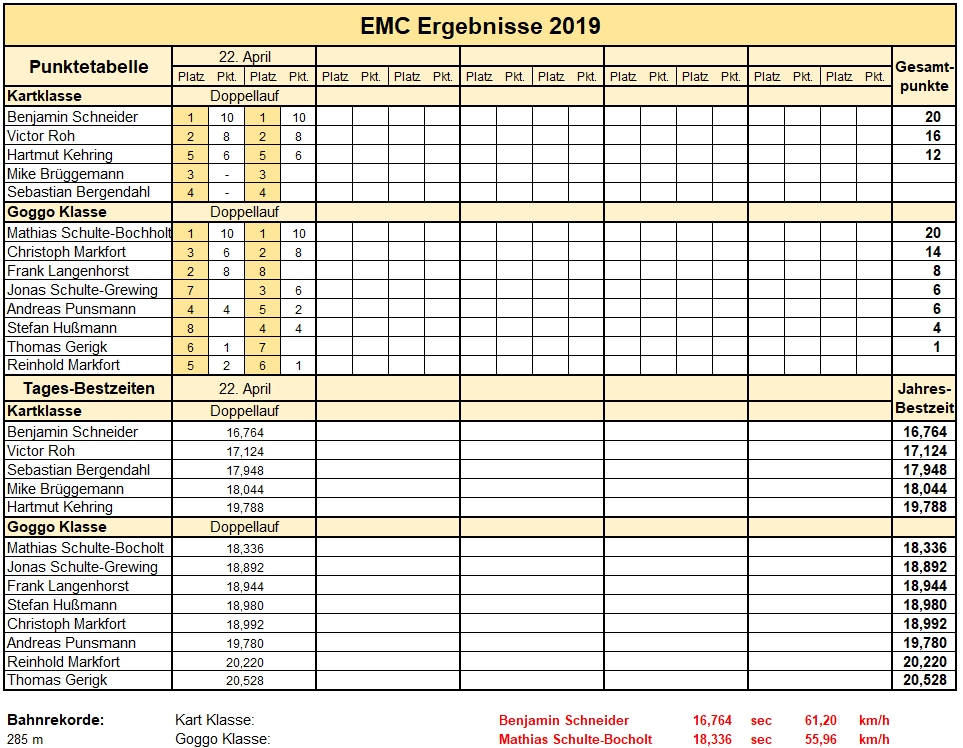
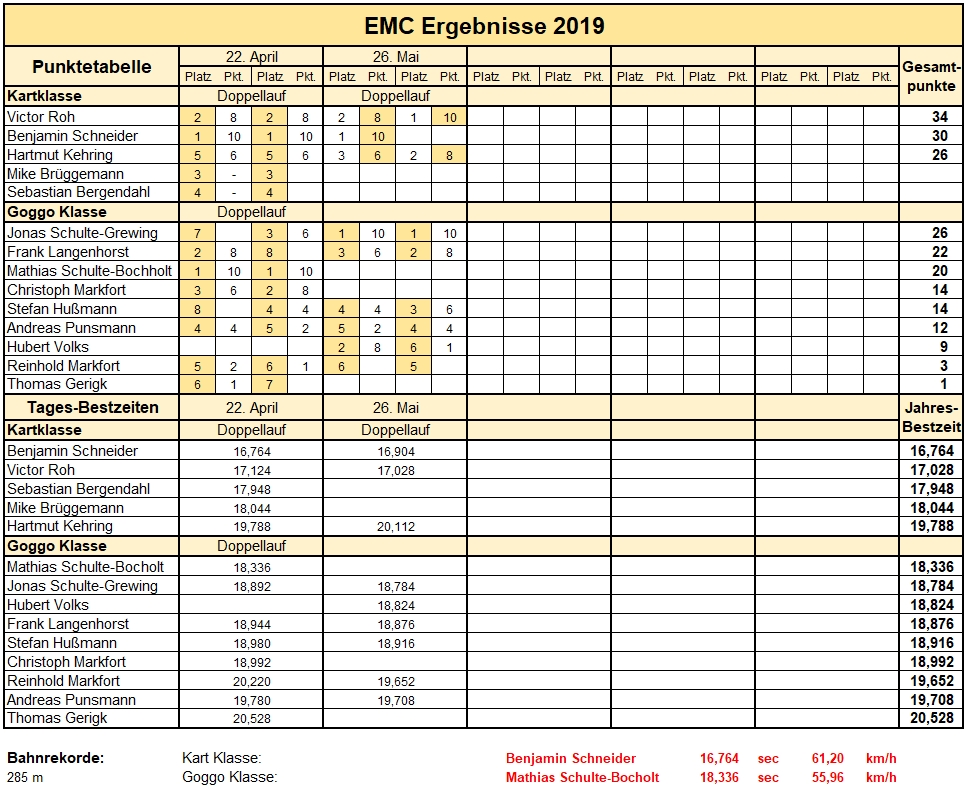
2. Rennen 2019

diff --git a/index.html b/index.html
@@ -8,13 +8,52 @@ description: Kartsport mit "Goggo"-Karts und konventionellen Karts
 <!-------------------------------------------------------------------------->
 <h2 align="center">Das Jahr 2019</h2>
 
-<p align="center"><font color="#FF0000"><b>
-  Der Termin für das 2. Rennen wurde nun endgültig auf <br>
-  Sonntag, den 26. Mai festgelegt!
-</b></font></p>
+<h3 align="center">2. Lauf um den Jahrespokal des EMC am 26. Mai 2019</h3>
+<p align="justify">
+  Der 2. Lauf zum EMC Pokal wurde am 26. Mai durchgeführt. 6 Fahrer gingen in
+  der Goggo-Klasse und 3 Fahrer in der Kartklasse an den Start. Bei sommerlichem
+  Wetter mit Temperaturen knapp über 20 Grad waren optimale Bedingungen für
+  Fahrer und Fahrzeuge gegeben.
+</p>
+<p align="justify">
+  In der Goggo-Klasse war Hubert Volks nach längerer Pause wieder angetreten und
+  konnte sich in beiden Läufen auf einem guten zweiten Platz positionieren.
+  Leider musste er den zweiten Lauf wegen eines platten Hinterreifens vorzeitig
+  beenden und kam somit nicht mit auf das Siegertreppchen. Jonas Schulte-Greving
+  belegte in beiden Rennen den 1. Platz, dahinter konnten sich Frank Langenhorst,
+  Stefan Hußmann und Andreas Punsmann platzieren.
+</p>
+<p align="justify">
+  In der Kartklasse lag Benjamin Schneider nach dem Training vorn und konnte
+  beim ersten Lauf einen Sieg einfahren. Leider war sein Kart anschließend wegen
+  eines Kupplungsschadens nicht mehr einsatzbereit und er konnte um den
+  Tagessieg nicht mehr mitkämpfen. Im zweiten 2 Lauf siegte dann Victor Roh vor
+  Hartmut Kehring.
+</p>
+<figure class="gesamt">           <!-- 2 Bilder nebeneinander anordnen -->
+      <figure class="einzel2">    <!-- Originalgröße 1630 x 1400 einstellen -->
+           <img src="img/rennen/2019.05.26_goggo.jpg" alt="Sieger Goggo" />
+           <figcaption>Tagessieger Goggo</figcaption>
+      </figure>
+      <figure class="einzel2">
+           <img src="img/rennen/2019.05.26_kart.jpg" alt="Sieger Kart" />
+           <figcaption>Tagessieger Kart</figcaption>
+      </figure>
+</figure>
+<div class="textspalten2">       <!-- Bildunterschrift in 2 Spalten anordnen -->
+   <ul>
+    	<li>1. Jonas Schulte-Greving</li>
+   		<li>2. Frank Langenhorst</li>
+   		<li>3. Stefan Hussman</li>
+   		<li>4. Andreas Punsmann</li>
+   		<li>1. Victor Roh</li>
+      <li>2. Hartmut Kehring</li>
+      <li>-</li>
+      <li>-</li>
+   </ul>
+</div>
 
 <h3 align="center">1. Lauf um den Jahrespokal des EMC am 22. April 2019</h3>
-
 <p align="justify">
   Der 1. Lauf zum EMC Pokal wurde traditionell am Ostermontag durchgeführt. An
   diesem 22. April waren 8 Fahrer in der Goggo-Klasse und 5 Fahrer in der
@@ -26,16 +65,13 @@ description: Kartsport mit "Goggo"-Karts und konventionellen Karts
   Fahrzeug mit ca. 70 PS wird er auch in diesem Jahr wieder bei den
   Rasenmäher-Rennen antreten.
 </p>
-
 <p align="justify">
   In der Goggo-Klasse beherrschte Matthias Schulte-Bocholt das Training und fuhr
   bei den Rennen zwei Start-Ziel-Siege ein. Frank Langenhorst belegte im ersten
   Lauf den 2. Platz, fiel aber im zweiten Lauf aus und konnte daher dieses gute
   Ergebnis für den Tagessieg nicht umsetzen. Nach den Platzierungen im zweiten
   Lauf ergaben sich die Tagessieger wie unten dargestellt.
-
 </p>
-
 <p align="justify">
   In der Kartklasse lag Benjamin Schneider nach dem Training vorn und konnte
   ebenfalls zwei Start-Ziel-Siege einfahren. Victor Roh belegte jeweils den
@@ -45,7 +81,6 @@ description: Kartsport mit "Goggo"-Karts und konventionellen Karts
   Unser Stammfahrer Hartmut Kehring fiel im zweiten Lauf mit Bremsproblemen aus
   und landete auf dem 5. Platz.
 </p>
-
 <figure class="gesamt">           <!-- 2 Bilder nebeneinander anordnen -->
       <figure class="einzel2">    <!-- Originalgröße 1630 x 1400 einstellen -->
            <img src="img/rennen/2019.04.22_goggo.jpg" alt="Sieger Goggo" />
@@ -56,7 +91,6 @@ description: Kartsport mit "Goggo"-Karts und konventionellen Karts
            <figcaption>Tagessieger Kart</figcaption>
       </figure>
 </figure>
-
 <div class="textspalten2">       <!-- Bildunterschrift in 2 Spalten anordnen -->
    <ul>
     	<li>1. Matthias Schulte-Bocholt</li>
